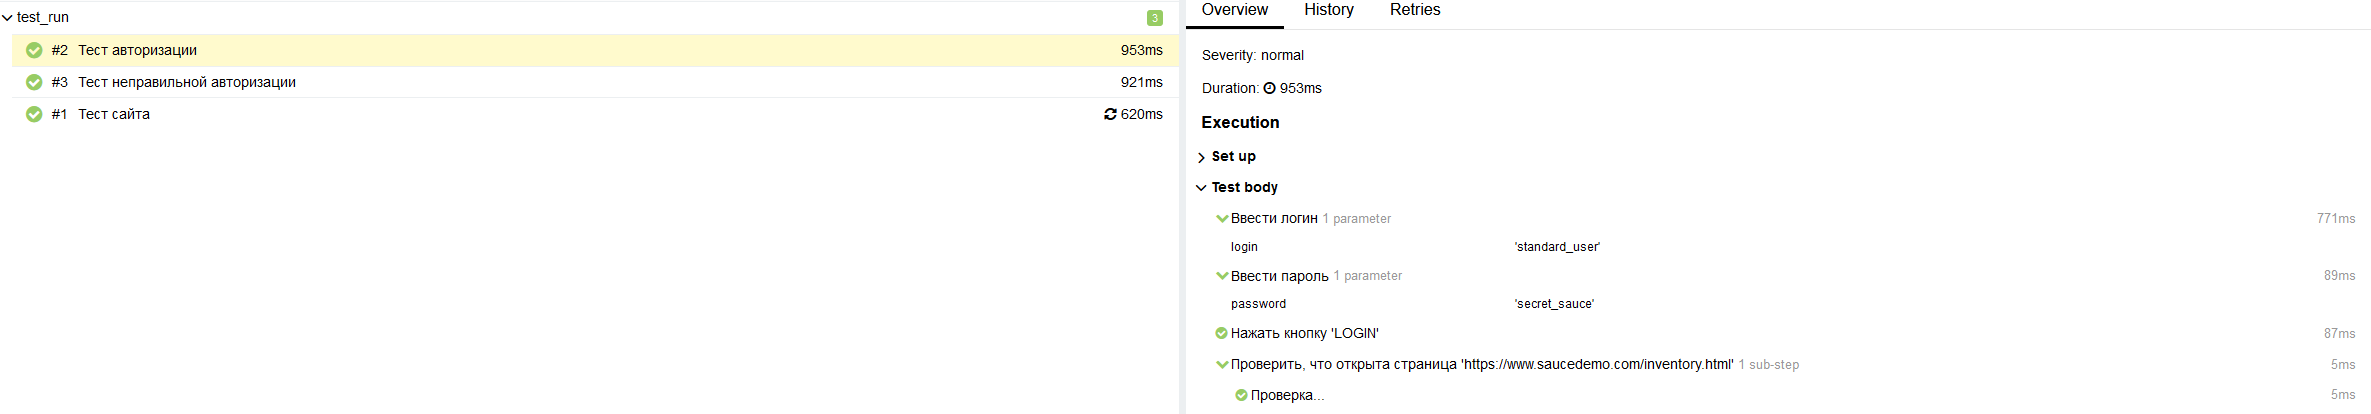
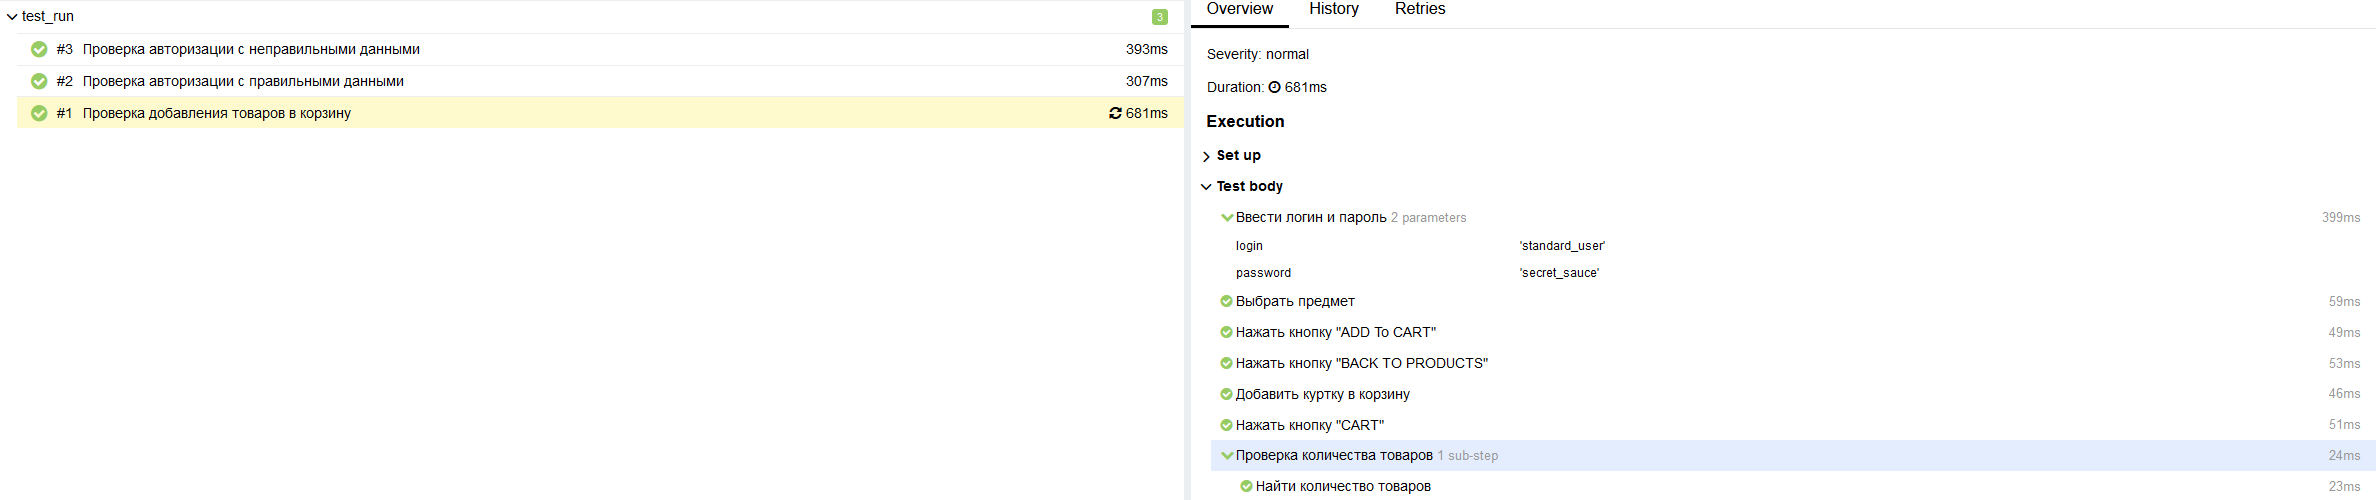
Исправления

diff --git a/test_run.py b/test_run.py
@@ -2,7 +2,7 @@ from pages import BasePage, LoginPage, InventoryPage, ItemPage, CartPage
 import allure
 
 
-@allure.title(r"Тест сайта")
+@allure.title(r"Проверка добавления товаров в корзину")
 def test_est_1_login(driver):
     auth_page = LoginPage(driver)
     auth_page.auth('standard_user', 'secret_sauce')
@@ -18,10 +18,11 @@ def test_est_1_login(driver):
     inventory_page.cart_btn_click()
 
     cart_page = CartPage(driver)
-    assert cart_page.number_of_products() == 2
+    with allure.step(r"Проверка количества товаров"):
+        assert cart_page.number_of_products() == 2, "Неверное количество элементов в корзине"
 
 
-@allure.title(r"Тест авторизации")
+@allure.title(r"Проверка авторизации с правильными данными")
 def test_auth(driver):
     auth_page = LoginPage(driver)
     auth_page.input_login('standard_user')
@@ -31,7 +32,7 @@ def test_auth(driver):
     InventoryPage(driver).check_inventory_page_open()
 
 
-@allure.title(r"Тест неправильной авторизации")
+@allure.title(r"Проверка авторизации с неправильными данными")
 def test_fail_auth(driver):
     auth_page = LoginPage(driver)
     auth_page.input_login('standard_user')

diff --git a/pages.py b/pages.py
@@ -74,13 +74,11 @@ class InventoryPage(BasePage):
 
     @allure.step(r"Проверить, что открыта страница 'https://www.saucedemo.com/inventory.html'")
     def check_inventory_page_open(self) -> bool:
-        with allure.step(r"Проверка..."):
-            assert self.get_current_url() == self.page_url, "Ошибка проверки!"
+        assert self.get_current_url() == self.page_url, "Ошибка проверки!"
 
     @allure.step(r"Проверить, что страница 'https://www.saucedemo.com/inventory.html' не открыта")
     def check_inventory_page_close(self) -> bool:
-        with allure.step(r"Проверка..."):
-            assert self.get_current_url() != self.page_url, "Ошибка проверки!"
+        assert self.get_current_url() != self.page_url, "Ошибка проверки!"
 
 
 class ItemPage(BasePage):
